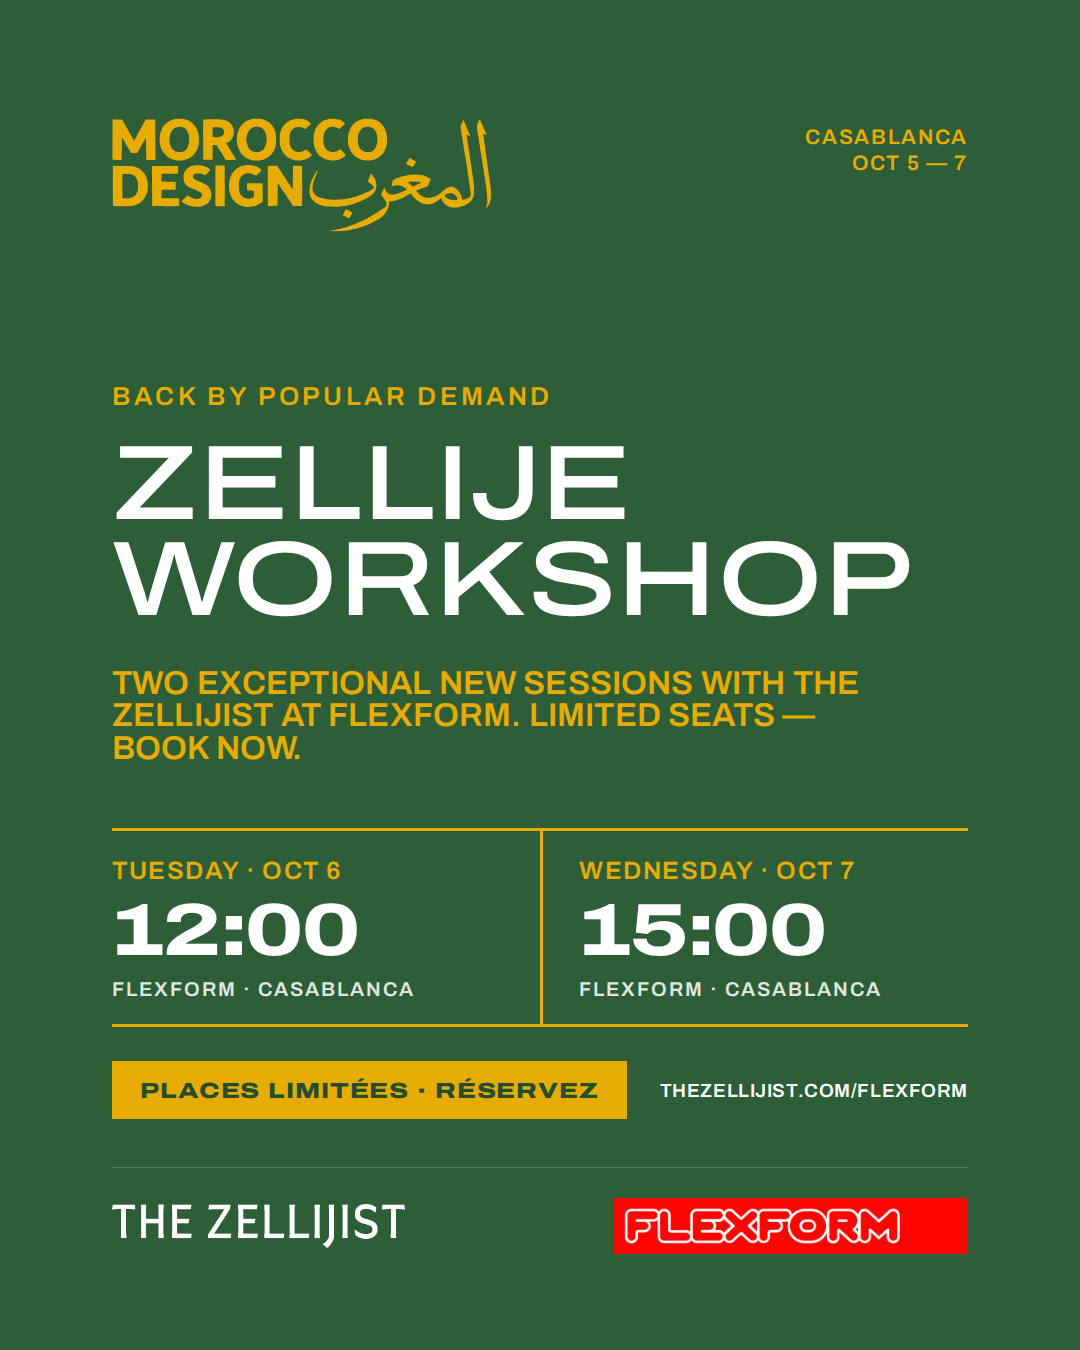
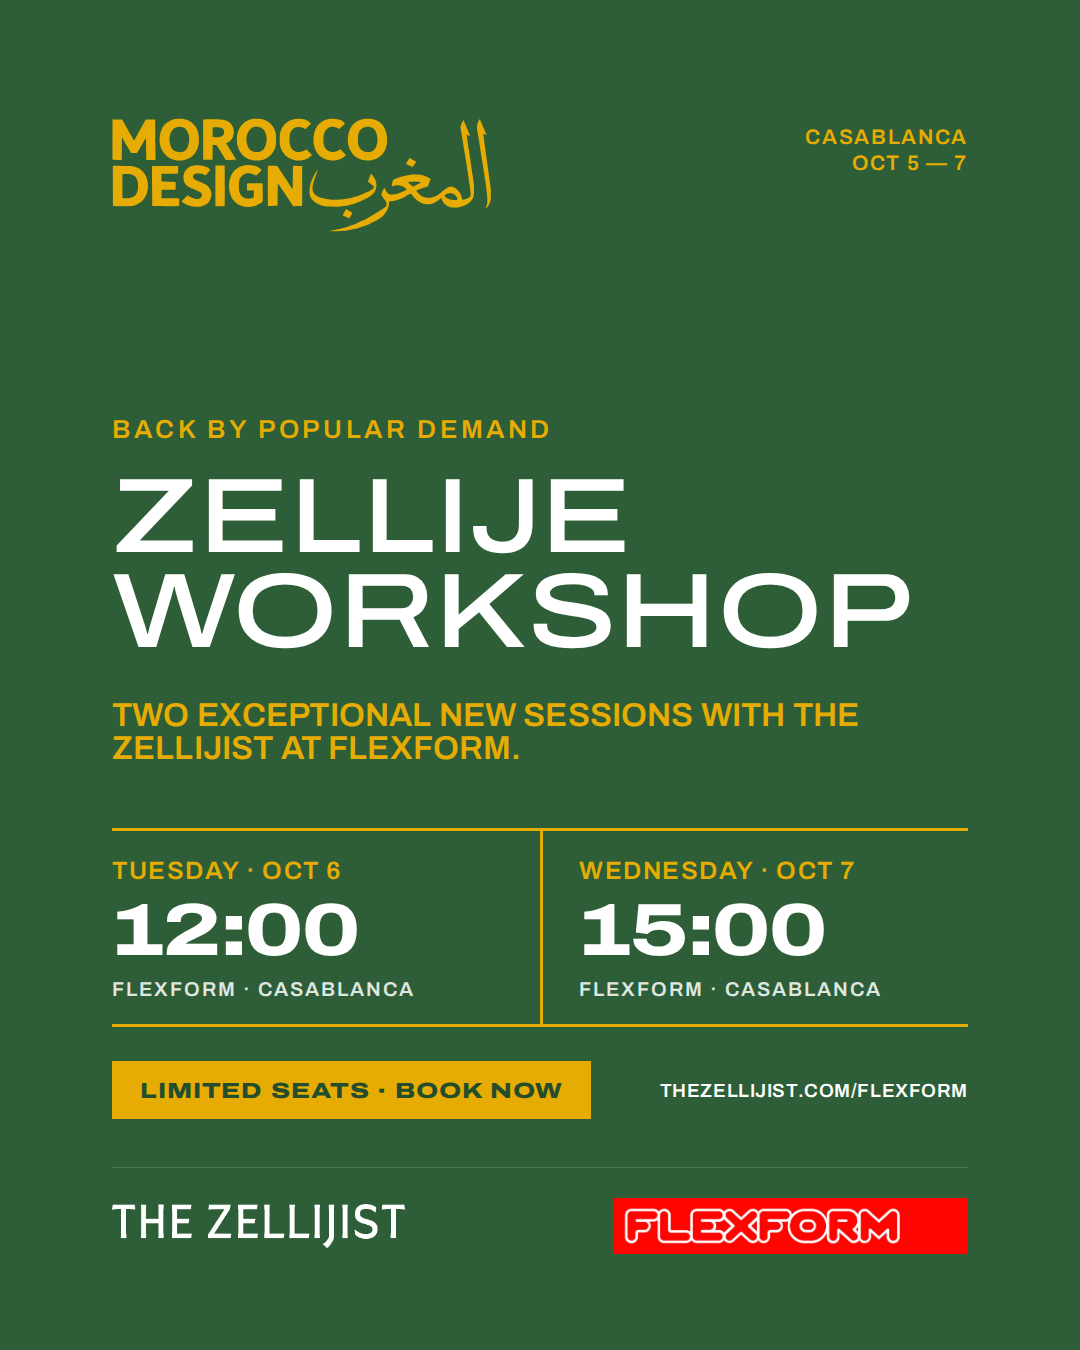
Atelier: English page and visuals, 8 seats per session, no visible seat count
Claude-Session: https://claude.ai/code/session_019g5TjcjHG5dtNLm92Mf1kh

diff --git a/atelier/index.html b/atelier/index.html
@@ -1,12 +1,12 @@
 <!doctype html>
-<html lang="fr">
+<html lang="en">
 <head>
 <meta charset="utf-8">
 <meta name="viewport" content="width=device-width, initial-scale=1">
-<title>Atelier Zellije — The Zellijist × Morocco Design</title>
-<meta name="description" content="Atelier zellije The Zellijist chez Flexform, Casablanca — mardi 6 octobre à 12:00 et mercredi 7 octobre à 15:00. Morocco Design, première édition. Places limitées.">
+<title>Zellije Workshop — The Zellijist × Morocco Design</title>
+<meta name="description" content="The Zellijist zellije workshop at Flexform, Casablanca — Tuesday October 6 at 12:00 and Wednesday October 7 at 15:00. Morocco Design, first edition. Limited seats.">
 <meta property="og:title" content="Zellije Workshop — The Zellijist × Morocco Design">
-<meta property="og:description" content="Deux sessions exceptionnelles chez Flexform, Casablanca. Places limitées — réservez.">
+<meta property="og:description" content="Two exceptional new sessions at Flexform, Casablanca. Limited seats — book now.">
 <meta property="og:image" content="visuels/zellijist-atelier-post-1080x1350.png">
 <link rel="stylesheet" href="assets/brand.css">
 <style>
@@ -33,10 +33,7 @@
   .s .d { color: var(--md-gold); font-size: clamp(13px, 1.6vw, 17px); letter-spacing: .06em; }
   .s .h { font-size: clamp(48px, 7vw, 84px); line-height: 1; }
   .s .p { font-size: clamp(11px, 1.3vw, 14px); letter-spacing: .1em; opacity: .85; }
-  .seats { margin-top: 10px; max-width: 360px; }
-  .seats .bar { height: 6px; background: var(--md-green-deep); position: relative; overflow: hidden; }
-  .seats .bar i { position: absolute; inset: 0 auto 0 0; background: var(--md-gold); width: 0; transition: width .5s ease; }
-  .seats .n { margin-top: 8px; font-size: 13px; letter-spacing: .08em; }
+  .s .n { margin-top: 10px; font-size: 13px; letter-spacing: .08em; color: var(--md-gold); }
   .s .pick { margin-top: 12px; align-self: flex-start; }
 
   .btn { appearance: none; border: 0; cursor: pointer; background: var(--md-gold); color: var(--md-green-deep); font-family: var(--font-wide); font-stretch: 125%; font-weight: 800; text-transform: uppercase; font-size: 15px; letter-spacing: .04em; padding: 15px 22px 13px; text-decoration: none; display: inline-block; }
@@ -89,7 +86,7 @@
 </style>
 </head>
 <body>
-<div class="demo" id="demo" hidden>Mode démo : les inscriptions sont enregistrées seulement dans ce navigateur.</div>
+<div class="demo" id="demo" hidden>Demo mode: bookings are only stored in this browser.</div>
 
 <div class="wrap">
   <header class="top">
@@ -98,35 +95,35 @@
   </header>
 
   <section class="hero">
-    <div class="eyebrow caps">Back by popular demand · De retour</div>
+    <div class="eyebrow caps">Back by popular demand</div>
     <h1 class="wide">Zellije<br>Workshop</h1>
-    <p class="lead caps">Deux sessions exceptionnelles avec The Zellijist chez Flexform. Places limitées — réservez.</p>
+    <p class="lead caps">Two exceptional new sessions with The Zellijist at Flexform. Limited seats — book now.</p>
     <div class="by caps">The Zellijist × Saad Filali Studio × Flexform</div>
   </section>
 
   <div class="sessions" id="sessions">
     <div class="s" data-id="mar-06-1200">
-      <div class="d caps">Mardi · 6 octobre</div>
+      <div class="d caps">Tuesday · October 6</div>
       <div class="h wide">12:00</div>
-      <div class="p caps">Showroom Flexform · Casablanca</div>
-      <div class="seats"><div class="bar"><i></i></div><div class="n caps">…</div></div>
-      <a class="btn pick" href="#reserver">Réserver</a>
+      <div class="p caps">Flexform Showroom · Casablanca</div>
+      <div class="n caps">Limited seats</div>
+      <a class="btn pick" href="#book">Book</a>
     </div>
     <div class="s" data-id="mer-07-1500">
-      <div class="d caps">Mercredi · 7 octobre</div>
+      <div class="d caps">Wednesday · October 7</div>
       <div class="h wide">15:00</div>
-      <div class="p caps">Showroom Flexform · Casablanca</div>
-      <div class="seats"><div class="bar"><i></i></div><div class="n caps">…</div></div>
-      <a class="btn pick" href="#reserver">Réserver</a>
+      <div class="p caps">Flexform Showroom · Casablanca</div>
+      <div class="n caps">Limited seats</div>
+      <a class="btn pick" href="#book">Book</a>
     </div>
   </div>
 
-  <section class="book" id="reserver">
+  <section class="book" id="book">
     <div class="intro">
-      <h2 class="wide">Réservez<br>votre place</h2>
-      <p>Après le succès de l'atelier de lundi, The Zellijist ouvre exceptionnellement deux nouvelles sessions dans le cadre de la première édition de Morocco Design.</p>
-      <p>Mettez les mains dans la matière : découvrez le zellije, ses formes, ses couleurs et son savoir-faire, dans le showroom Flexform.</p>
-      <p class="gold caps" style="font-size:14px;letter-spacing:.08em">Places limitées · Inscription gratuite · Confirmation par email</p>
+      <h2 class="wide">Book<br>your seat</h2>
+      <p>After Monday's success, The Zellijist is opening two exceptional new sessions as part of the first edition of Morocco Design.</p>
+      <p>Get your hands on the material: discover zellije, its shapes, its colours and its craft, in the Flexform showroom.</p>
+      <p class="gold caps" style="font-size:14px;letter-spacing:.08em">Limited seats · Free registration · Email confirmation</p>
     </div>
 
     <div id="formBox">
@@ -134,18 +131,18 @@
         <fieldset class="full">
           <legend>Session</legend>
           <div class="opts">
-            <label class="opt"><input type="radio" name="session" value="mar-06-1200" required><b>Mar. 6 · 12:00</b><small data-left="mar-06-1200">Flexform</small></label>
-            <label class="opt"><input type="radio" name="session" value="mer-07-1500"><b>Mer. 7 · 15:00</b><small data-left="mer-07-1500">Flexform</small></label>
+            <label class="opt"><input type="radio" name="session" value="mar-06-1200" required><b>Tue 6 · 12:00</b><small data-left="mar-06-1200">Flexform</small></label>
+            <label class="opt"><input type="radio" name="session" value="mer-07-1500"><b>Wed 7 · 15:00</b><small data-left="mer-07-1500">Flexform</small></label>
           </div>
         </fieldset>
-        <label class="f"><span>Prénom</span><input type="text" name="firstName" autocomplete="given-name" required maxlength="80"></label>
-        <label class="f"><span>Nom</span><input type="text" name="lastName" autocomplete="family-name" required maxlength="80"></label>
+        <label class="f"><span>First name</span><input type="text" name="firstName" autocomplete="given-name" required maxlength="80"></label>
+        <label class="f"><span>Last name</span><input type="text" name="lastName" autocomplete="family-name" required maxlength="80"></label>
         <label class="f"><span>Email</span><input type="email" name="email" autocomplete="email" required maxlength="120"></label>
-        <label class="f"><span>Téléphone</span><input type="tel" name="phone" autocomplete="tel" required maxlength="40" placeholder="+212 …"></label>
-        <label class="f"><span>Société / studio <em style="font-style:normal;opacity:.7">(optionnel)</em></span><input type="text" name="company" autocomplete="organization" maxlength="120"></label>
-        <label class="f"><span>Nombre de places</span><select name="seats"><option value="1">1 place</option><option value="2">2 places</option></select></label>
-        <label class="hp" aria-hidden="true">Site web<input type="text" name="website" tabindex="-1" autocomplete="off"></label>
-        <div class="full"><button class="btn" type="submit" id="submit">Confirmer ma réservation</button></div>
+        <label class="f"><span>Phone</span><input type="tel" name="phone" autocomplete="tel" required maxlength="40" placeholder="+212 …"></label>
+        <label class="f"><span>Company / studio <em style="font-style:normal;opacity:.7">(optional)</em></span><input type="text" name="company" autocomplete="organization" maxlength="120"></label>
+        <label class="f"><span>Seats</span><select name="seats"><option value="1">1 seat</option><option value="2">2 seats</option></select></label>
+        <label class="hp" aria-hidden="true">Website<input type="text" name="website" tabindex="-1" autocomplete="off"></label>
+        <div class="full"><button class="btn" type="submit" id="submit">Confirm my booking</button></div>
         <div class="full msg" id="msg" role="status" aria-live="polite"></div>
       </form>
     </div>
@@ -164,36 +161,36 @@
 </footer>
 
 <script>
-  // Fonction Vercel du site (api/atelier.js). Mode démo hors ligne : fichier local, localhost ou ?demo.
+  // Site function (api/atelier.js). Demo mode: local file, localhost or ?demo.
   const API_URL = '/api/atelier';
   const DEMO = location.protocol === 'file:' || /^(localhost|127\.0\.0\.1)$/.test(location.hostname) || new URLSearchParams(location.search).has('demo');
 
-  const DEMO_CAPACITY = 10;
+  // The page never shows how many seats are left: only open / full per session.
+  const DEMO_CAPACITY = 8;
   const IDS = ['mar-06-1200', 'mer-07-1500'];
+  const LABELS = { 'mar-06-1200': 'Tuesday October 6 at 12:00', 'mer-07-1500': 'Wednesday October 7 at 15:00' };
   const ERRORS = {
-    full: 'Cette session est complète. Essayez l\'autre créneau.',
-    not_enough_seats: 'Il ne reste pas assez de places pour ce créneau.',
-    already_registered: 'Vous êtes déjà inscrit·e à cette session avec cet email.',
-    invalid_fields: 'Merci de remplir tous les champs obligatoires.',
-    invalid_session: 'Merci de choisir une session.',
-    busy: 'Beaucoup de demandes en même temps, merci de réessayer.',
-    network: 'Connexion impossible. Merci de réessayer dans un instant.',
+    full: 'This session is full. Please try the other one.',
+    not_enough_seats: 'Not enough seats left in this session. Try booking 1 seat, or the other session.',
+    already_registered: 'You are already registered for this session with this email.',
+    invalid_fields: 'Please fill in all required fields.',
+    invalid_session: 'Please choose a session.',
+    busy: 'Lots of requests right now, please try again.',
+    network: 'Connection failed. Please try again in a moment.',
   };
 
   const form = document.getElementById('form');
   const msg = document.getElementById('msg');
   const submit = document.getElementById('submit');
 
-  // ----- Mode démo (localStorage) -----
+  // ----- Demo mode (localStorage) -----
   const demo = {
     load() { try { return JSON.parse(localStorage.getItem('zellijist-demo') || '[]'); } catch { return []; } },
     save(rows) { try { localStorage.setItem('zellijist-demo', JSON.stringify(rows)); } catch {} },
+    booked(rows, id) { return rows.filter(r => r.session === id).reduce((a, r) => a + r.seats, 0); },
     sessions(rows) {
       const out = {};
-      IDS.forEach(id => {
-        const booked = rows.filter(r => r.session === id).reduce((a, r) => a + r.seats, 0);
-        out[id] = { capacity: DEMO_CAPACITY, booked, remaining: Math.max(0, DEMO_CAPACITY - booked) };
-      });
+      IDS.forEach(id => { out[id] = { full: demo.booked(rows, id) >= DEMO_CAPACITY }; });
       return out;
     },
   };
@@ -209,10 +206,10 @@
   async function postBooking(data) {
     if (DEMO) {
       const rows = demo.load();
-      const s = demo.sessions(rows)[data.session];
-      if (!s) return { ok: false, error: 'invalid_session' };
+      if (!IDS.includes(data.session)) return { ok: false, error: 'invalid_session' };
       if (rows.some(r => r.session === data.session && r.email === data.email.toLowerCase())) return { ok: false, error: 'already_registered' };
-      if (data.seats > s.remaining) return { ok: false, error: s.remaining ? 'not_enough_seats' : 'full' };
+      const left = DEMO_CAPACITY - demo.booked(rows, data.session);
+      if (data.seats > left) return { ok: false, error: left > 0 ? 'not_enough_seats' : 'full', sessions: demo.sessions(rows) };
       rows.push({ ...data, email: data.email.toLowerCase(), date: new Date().toISOString() });
       demo.save(rows);
       return { ok: true, sessions: demo.sessions(rows) };
@@ -226,68 +223,54 @@
     IDS.forEach(id => {
       const s = sessions[id]; if (!s) return;
       const card = document.querySelector(`.s[data-id="${id}"]`);
-      const pct = s.capacity ? (s.booked / s.capacity) * 100 : 100;
-      card.querySelector('.bar i').style.width = pct + '%';
-      card.querySelector('.n').textContent = s.remaining > 0
-        ? `${s.remaining} place${s.remaining > 1 ? 's' : ''} restante${s.remaining > 1 ? 's' : ''} / ${s.capacity}`
-        : 'Complet';
+      card.querySelector('.n').textContent = s.full ? 'Fully booked' : 'Limited seats';
       const pick = card.querySelector('.pick');
-      pick.textContent = s.remaining > 0 ? 'Réserver' : 'Complet';
-      pick.toggleAttribute('aria-disabled', s.remaining <= 0);
-      pick.style.pointerEvents = s.remaining > 0 ? '' : 'none';
-      pick.style.opacity = s.remaining > 0 ? '' : '.5';
+      pick.textContent = s.full ? 'Fully booked' : 'Book';
+      pick.toggleAttribute('aria-disabled', s.full);
+      pick.style.pointerEvents = s.full ? 'none' : '';
+      pick.style.opacity = s.full ? '.5' : '';
       const radio = form.querySelector(`input[value="${id}"]`);
-      radio.disabled = s.remaining <= 0;
+      radio.disabled = s.full;
       if (radio.disabled) radio.checked = false;
-      form.querySelector(`[data-left="${id}"]`).textContent = s.remaining > 0 ? `Flexform · ${s.remaining} place${s.remaining > 1 ? 's' : ''}` : 'Complet';
+      form.querySelector(`[data-left="${id}"]`).textContent = s.full ? 'Fully booked' : 'Flexform';
     });
-    const seatsSel = form.seats;
-    const chosen = form.querySelector('input[name=session]:checked');
-    const left = chosen ? sessions[chosen.value].remaining : 2;
-    seatsSel.options[1].disabled = left < 2;
-    if (left < 2) seatsSel.value = '1';
-    if (IDS.every(id => sessions[id] && sessions[id].remaining <= 0)) {
-      submit.disabled = true; submit.textContent = 'Toutes les sessions sont complètes';
+    if (IDS.every(id => sessions[id] && sessions[id].full)) {
+      submit.disabled = true; submit.textContent = 'All sessions are fully booked';
     }
   }
 
   let current = null;
   async function refresh() {
-    try { current = await fetchSessions(); render(current); }
-    catch { document.querySelectorAll('.seats .n').forEach(n => (n.textContent = 'Places limitées')); }
+    try { current = await fetchSessions(); render(current); } catch {}
   }
 
   document.querySelectorAll('.s .pick').forEach(a => a.addEventListener('click', () => {
-    const id = a.closest('.s').dataset.id;
-    const radio = form.querySelector(`input[value="${id}"]`);
-    if (!radio.disabled) { radio.checked = true; render(current); }
+    const radio = form.querySelector(`input[value="${a.closest('.s').dataset.id}"]`);
+    if (!radio.disabled) radio.checked = true;
   }));
-  form.addEventListener('change', e => { if (e.target.name === 'session') render(current); });
 
   form.addEventListener('submit', async e => {
     e.preventDefault();
     msg.className = 'full msg'; msg.textContent = '';
-    const fd = new FormData(form);
-    const data = Object.fromEntries(fd.entries());
+    const data = Object.fromEntries(new FormData(form).entries());
     data.seats = parseInt(data.seats, 10) || 1;
     if (!data.session) { msg.className += ' err'; msg.textContent = ERRORS.invalid_session; return; }
     if (!form.checkValidity()) { msg.className += ' err'; msg.textContent = ERRORS.invalid_fields; form.reportValidity(); return; }
 
-    submit.disabled = true; submit.textContent = 'Envoi…';
+    submit.disabled = true; submit.textContent = 'Sending…';
     let res;
     try { res = await postBooking(data); } catch { res = { ok: false, error: 'network' }; }
-    submit.disabled = false; submit.textContent = 'Confirmer ma réservation';
+    submit.disabled = false; submit.textContent = 'Confirm my booking';
 
     if (res.sessions) { current = res.sessions; render(current); }
     if (!res.ok) { msg.className += ' err'; msg.textContent = ERRORS[res.error] || ERRORS.network; return; }
 
-    const label = data.session === 'mar-06-1200' ? 'mardi 6 octobre à 12:00' : 'mercredi 7 octobre à 15:00';
     const box = document.getElementById('formBox');
     box.innerHTML = '';
     const done = document.createElement('div'); done.className = 'done';
-    const h = document.createElement('h3'); h.className = 'wide'; h.textContent = 'C\'est réservé';
+    const h = document.createElement('h3'); h.className = 'wide'; h.textContent = 'You\'re booked';
     const p = document.createElement('p');
-    p.textContent = `Merci ${data.firstName} ! ${data.seats > 1 ? 'Vos ' + data.seats + ' places sont confirmées' : 'Votre place est confirmée'} pour l'atelier du ${label}, au showroom Flexform à Casablanca.${!DEMO ? ' Un email de confirmation vous a été envoyé.' : ''}`;
+    p.textContent = `Thank you ${data.firstName}! ${data.seats > 1 ? 'Your ' + data.seats + ' seats are' : 'Your seat is'} confirmed for the workshop on ${LABELS[data.session]}, at the Flexform showroom in Casablanca.${!DEMO ? ' A confirmation email is on its way.' : ''}`;
     done.append(h, p); box.append(done);
     box.scrollIntoView({ behavior: 'smooth', block: 'center' });
   });

diff --git a/atelier/visuels/post.html b/atelier/visuels/post.html
@@ -38,7 +38,7 @@
   <div class="main">
     <div class="eyebrow caps">Back by popular demand</div>
     <h1 class="wide">Zellije<br>Workshop</h1>
-    <p class="sub caps">Two exceptional new sessions with The Zellijist at Flexform. Limited seats — book now.</p>
+    <p class="sub caps">Two exceptional new sessions with The Zellijist at Flexform.</p>
 
     <div class="sessions">
       <div class="s">
@@ -54,7 +54,7 @@
     </div>
 
     <div class="cta">
-      <div class="book wide">Places limitées · Réservez</div>
+      <div class="book wide">Limited seats · Book now</div>
       <div class="url caps">thezellijist.com/flexform</div>
     </div>
   </div>

diff --git a/atelier/inscrits.html b/atelier/inscrits.html
@@ -83,7 +83,7 @@
     const sessions = {};
     Object.keys(labels).forEach(id => {
       const booked = rows.filter(r => r.session === id).reduce((a, r) => a + r.seats, 0);
-      sessions[id] = { label: labels[id], capacity: 10, booked, remaining: Math.max(0, 10 - booked) };
+      sessions[id] = { label: labels[id], capacity: 8, booked, remaining: Math.max(0, 8 - booked) };
     });
     return { ok: true, sessions, rows: rows.map(r => ({ ...r, sessionId: r.session, session: labels[r.session], status: 'Confirmé' })) };
   }

diff --git a/atelier/visuels/story.html b/atelier/visuels/story.html
@@ -52,7 +52,7 @@
     </div>
 
     <div class="book">
-      <span class="t wide">Places limitées<br>Réservez&nbsp;↗</span>
+      <span class="t wide">Limited seats<br>Book now&nbsp;↗</span>
       <span class="u caps">thezellijist.com<br>/flexform</span>
     </div>
   </div>
